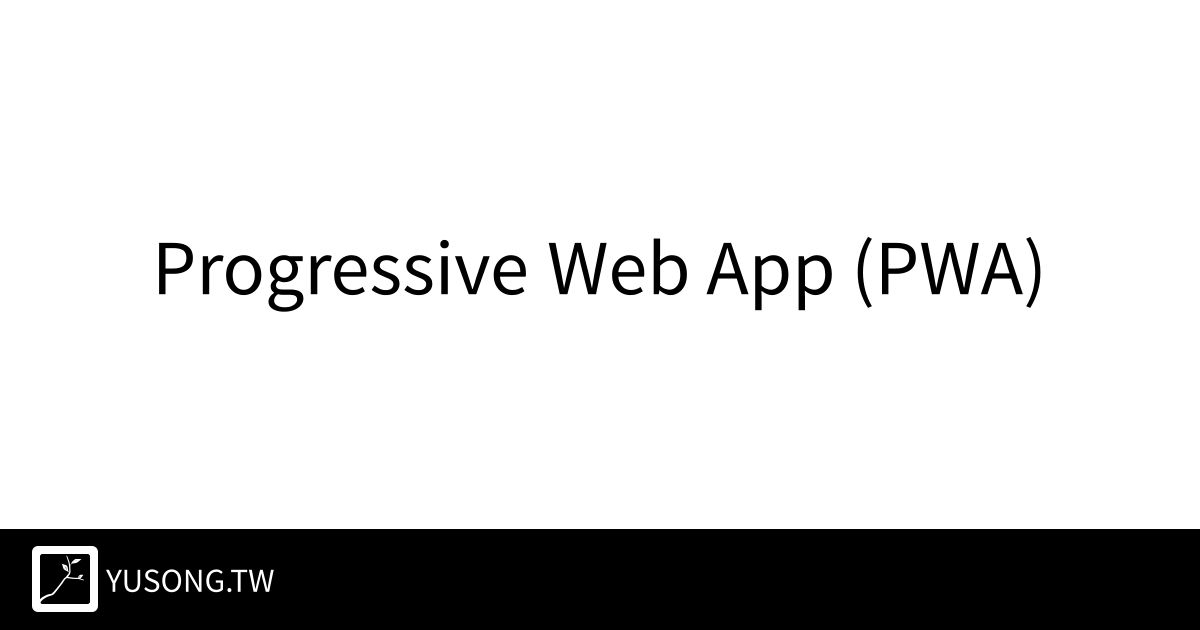
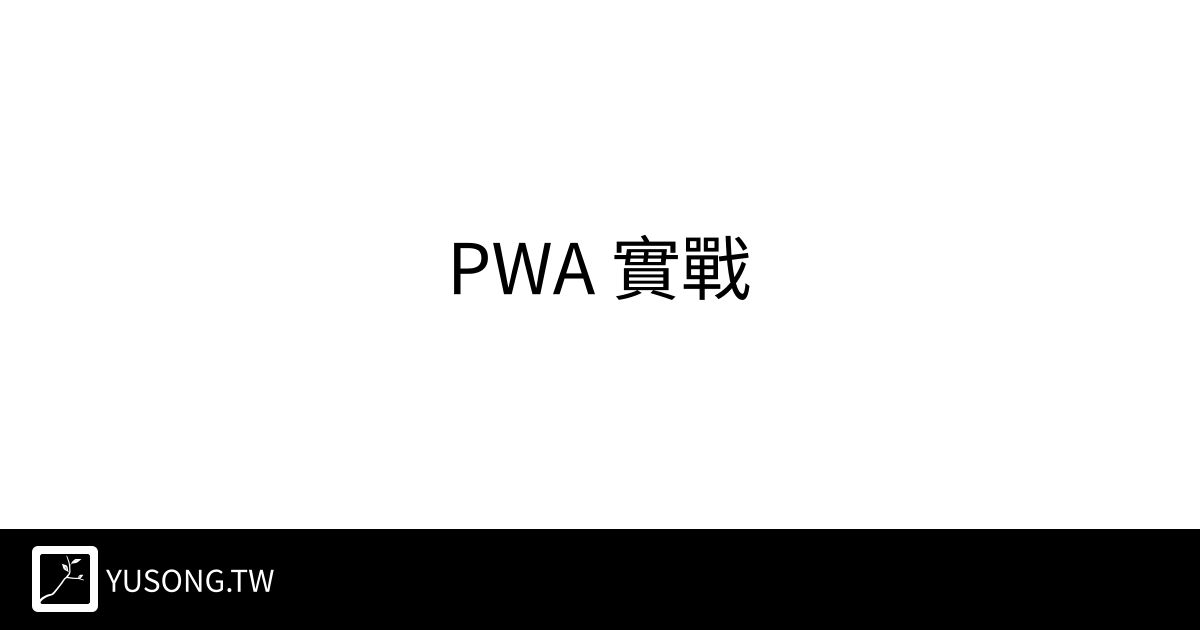
docs: update pwa series & intro (#204)
* Update index.meta.js

* Update content.md

* Update index.md

* chore: ignore format links

Changed region(s): [[0.1233, 0.3619, 0.8942, 0.5127]]

diff --git a/src/components/Router/getRoutes.js b/src/components/Router/getRoutes.js
@@ -53,9 +53,9 @@ const getConvertedPosts = (posts) => {
             return `<div data-table class="[&[data-table]]:overflow-x-auto">${match}</div>`
           })
           // Format links
-          .replace(/\bhttps?:\/\/[^\s<]+|\bwww\.[^\s<]+/g, (match) => {
-            return `<a href="${match}">${match}</a>`
-          })
+          // .replace(/\bhttps?:\/\/[^\s<]+|\bwww\.[^\s<]+/g, (match) => {
+          //   return `<a href="${match}">${match}</a>`
+          // })
           // Outside links need to open new tab
           .replace(/<a([^>]*\shref="https:\/\/[^"]*")/g, '<a$1 target="_blank" class="break-all" referrerpolicy="no-referrer"')
           // Same folder image

diff --git a/src/pages/article/pwa/index.meta.js b/src/pages/article/pwa/index.meta.js
@@ -1,5 +1,5 @@
 const meta = {
-  title: 'Progressive Web App (PWA)',
-  description: '可以像 App 一樣執行，甚至能在沒網路時照常使用，這就是 Progressive Web App (PWA) 的特徵！'
+  title: 'PWA 實戰',
+  description: '記錄從無到有把 PWA 加入網站中，以及需要注意的細節。'
 }
 export default meta

diff --git a/src/pages/article/pwa/pwa-intro/index.md b/src/pages/article/pwa/pwa-intro/index.md
@@ -1,8 +1,8 @@
 ---
-title: PWA 介紹
-description: 介紹 PWA 漸進式應用程式
+title: 簡單認識一下 PWA
+description: 認識 PWA 具有哪些功能、用抽象的範例來理解結合 PWA 到既有的網站有什麼好處
 createdAt: 2025-01-31T00:00:00.000Z
-modifiedAt: "2025-02-20T17:07:16.729Z"
+modifiedAt: "2025-02-21T13:25:08.286Z"
 tags:
   - PWA
 index: 0
@@ -14,37 +14,54 @@ index: 0
 
 ### [主要技術](#core-tech)
 
-主要圍繞以下幾點技術要素：
+主要圍繞在底下幾個技術：
 
-- Service Worker
-  - 攔截與快取請求
+- ⚙ Service Worker
+  - 攔截請求
+  - 自訂快取請求
+  - 預先擷取資源
   - 背景執行
-- Web App Manifest
-  - 設定 web app 外觀與安裝資訊
-- Web Push Notification
+- 📱 Web App Manifest
+  - 設定 Web App 外觀
+  - 安裝資訊
+  - 豐富安裝界面
+- 🔔 Web Push Notification
   - 發送推播
-- HTTPS (限制)
+  - 推播導向 Web App
+- 🔐 HTTPS (限制)
   - PWA 必須 在 HTTPS 環境下執行，以確保 Service Worker 不能被中間人攻擊 (MITM Attack) 。
+
+第一次接觸只看名稱可能還是不太理解結合既有的網站跟 PWA 所能帶來的好處是什麼？
+
+所以下面用一個情境說明結合 PWA 前後的差異 ↓
 
 ### [抽象使用情境](#story)
 
-想像第一次當老闆在巷子裡開了一間咖啡店，客人要來到現場才能買咖啡。但隨著工作越來越熟悉，你希望生意越來越好、能提供更好的消費體驗，於是你開始做出一些改善(漸進式)！
+想像第一次當老闆在巷子裡開了一間內用限定的咖啡店。隨著工作越來越熟悉，你希望生意越來越好、能提供更好的消費體驗，於是我們開始想在既有的商業模式上做出一些改善(漸進式)！
 
-1. 增加「紙杯外帶服務」(Service Worker Cache)
-   客人不再需要每次都在店裡等待咖啡製作，讓他們可以帶著咖啡到任何地方享用 —— Service Worker，快取使用者曾經瀏覽過的內容即使在網路環境不佳的情況下也可以正常瀏覽。
+1. 開始「記錄熟客」(⚙ Service Worker 快取)
+   隨著客人光顧的次數增加我們常常可以看到店員會記住客人的點餐模式、規格與習慣，甚至可以預測他們的喜好推薦新商品。
 
-1. 推出「外送服務」(Web App Manifest)
-   為了拓展客源開始接受網路預約，客人只要付外送費(安裝)就能更容易買到咖啡 —— PWA 的安裝機制，使用者可以把網站「安裝」到手機桌面，隨時點擊開啟，無需每次輸入網址。
+   > 曾經進入過網站快取在沒有 Service Worker 的情況下我們可以靠 CDN 設定快取減少每次造訪需要重新下載的時間。  
+   > 有了 Service Worker 除了 CDN 快取，我們還可以預先在背景擷取整個網站的資源，就像是下載成一個完整的 App 本體一樣，可以在未來操作體驗上減少更多下載的時間。
 
-1. 開始提供「商品通知」(Web Push Notification)
-   想讓客人知道新品上市或促銷活動，於是開始到處貼宣傳單：「今天新推出巧克力拿鐵！」，客人即使沒有來店裡，也能知道最新資訊 —— 推播通知，可以主動將新訊息推送給使用者。
+1. 推出「外送服務」(📱 Web App Manifest)
+   為了拓展客源、增加客人光顧的機會推出外送服務，客人只要付外送費就能更容易買到咖啡。
 
-1. 這些改善有機會替咖啡店創造更多機會，不再只是被動等待生意上門。
-   這是 PWA 帶來的轉變 —— 你還是那家熟悉的咖啡店 (網站) ，但現在它變得更自由、更便利 (可安裝成 Web App)，吸引更多回頭客 (推播通知)，並且還有可能降低經營成本 (快取靜態檔案)！
+   > Web App Manifest 的安裝機制，可以讓使用者把網站安裝到裝置的桌面，支付了安裝的代價，Web App 變得可以隨點即用更方便了。
 
-加入 PWA 不會改變網站的本質，而是讓它變得更具彈性、性能更好、更容易進行傳播。
+1. 亂槍打鳥「商品通知」(🔔 Web Push Notification)
+   想讓客人知道新品上市或促銷活動，開始到處貼宣傳單，客人即使沒有來店裡，也能得到最新資訊。
+
+   > Web Notification 加上 Service Worker 攔截 Push message 可以達到像一般 App 一樣對使用者發送推播通知。
+
+1. 這些改善有機會替咖啡店創造更多機會，不再只是被動等待生意上門，這就是 PWA 好處，還是那家熟悉的咖啡店 (網站) ，但現在它服務更好了 (快取、預先擷取資源)，容易吸引更多回頭客 (推播通知)，並且更方便了 (可以安裝成 Web App 使用)！
+
+### [結論](#conclusion)
+
+PWA 強調的是漸進式，也就是說不是全部功能都要實作缺一不可，各取所需挑需要的功能逐步實作到既有的網站上，漸進式的做出改善就可以了。
 
 ### 參考
 
-1. https://zh.wikipedia.org/zh-tw/漸進式網路應用程式
-1. https://developer.mozilla.org/zh-TW/docs/Web/Progressive_web_apps
+1. [PWA WIKI](https://zh.wikipedia.org/zh-tw/漸進式網路應用程式)
+1. [MDN PWA](https://developer.mozilla.org/zh-TW/docs/Web/Progressive_web_apps)

diff --git a/src/pages/article/pwa/content.md b/src/pages/article/pwa/content.md
@@ -1,2 +1,2 @@
-現在的網站越來越強大，不只是能瀏覽資訊，還能像 App 一樣執行，甚至能在沒網路時照常使用，這就是 Progressive Web App (PWA) 的特徵！
-他可以讓網站變得更快、更順暢，還能直接「安裝」到手機或電腦上，給人一種原生 App 的感覺。
+自從 iOS 支援 Web App 大幅提升後目前將 PWA 加入既有的網站可以帶來的好處越來越多了。  
+寫這個系列紀錄一下現在如何使用 PWA，以及 PWA 在實作 `安裝`、`更新版本`、`快取`、`支援離線`、`推播` 等功能時需要注意的地方與推薦做法。
